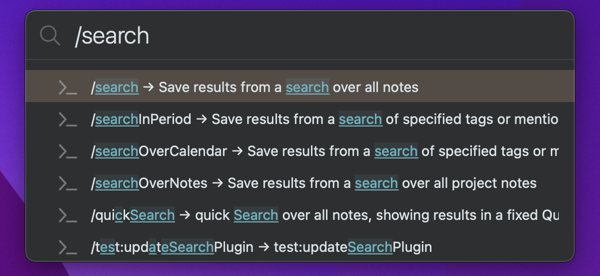
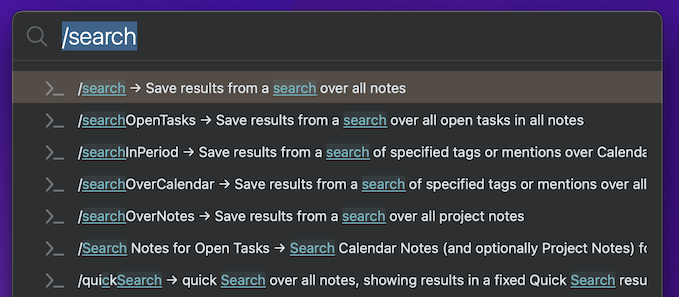
SearchExtensions v1.0.0

diff --git a/helpers/search.js b/helpers/search.js
@@ -156,7 +156,7 @@ export function simplifyRawContent(input: string): string {
  * - if its NotePlan and an 'open' task we need to make it a sync results using blockIDs
  * - shortens it to maxChars characters around the first matching term (if maxChars > 0 and Simplified style). This uses some very powerful regex magic.
  *   - TODO: Ideally doesn't chop in the middle of a URI
- * - adds ==highlight== to matching terms if wanted (and if not already highlighted)
+ * - adds ==highlight== to matching terms if wanted (and if not already highlighted, and using 'Simplified' style)
  * @author @jgclark
  * 
  * @param {string} input this result content
@@ -227,7 +227,7 @@ export function trimAndHighlightTermInLine(
 
     // Add highlighting if wanted (using defined Regex so can use 'g' flag)
     // (A simple .replace() command doesn't work as it won't keep capitalisation)
-    if (addHighlight) {
+    if (simplifyLine && addHighlight) {
       // regex: find any of the match terms in all the text
       const re = new RegExp(`(?:[^=](${terms.join('|')})(?=$|[^=]))`, "gi")
       const termMatches = output.matchAll(re)

diff --git a/jgclark.SearchExtensions/src/searchHelpers.js b/jgclark.SearchExtensions/src/searchHelpers.js
@@ -794,7 +794,7 @@ export async function writeSearchResultsToNote(
     let noteFilename = ''
     const headingMarker = '#'.repeat(config.headingLevel)
     const searchTermsRepStr = resultSet.searchTermsRepArr.join(' ')
-    const xCallbackLine = (xCallbackURL !== '') ? ` [🔄 Click to refresh results for '${searchTermsRepStr}'](${xCallbackURL})` : ''
+    const xCallbackLine = (xCallbackURL !== '') ? ` [🔄 Refresh results for '${searchTermsRepStr}'](${xCallbackURL})` : ''
 
     // Get array of 'may' or 'must' search terms
     const mayOrMustTerms = resultSet.searchTermsRepArr.filter((f) => f[0] !== '-')

diff --git a/jgclark.SearchExtensions/README.md b/jgclark.SearchExtensions/README.md
@@ -1,23 +1,24 @@
 # 🔎 Search Extensions plugin
-NotePlan can search over your notes, but it is currently not very flexible or easy to use; in particular it's difficult to navigate between the search results and any of the actual notes it shows.  This plugin adds some extra power and usability to searching.  Most things can be configured, but by default the search runs and **saves the results in a note that it opens as a split view** next to where you're working.
+NotePlan can search over your notes, but it is currently not very flexible or easy to use; in particular it's difficult to navigate between the search results and any of the actual notes it shows.  This plugin adds some extra power and usability to searching:
+- lets you have keep special notes that lists all open tasks for @colleagueX that you can update in place!
+- extends the search syntax
+- by default the search runs and **saves the results in a note that it opens as a split view** next to where you're working.
 
-![demo](qs+repeat-demo.gif)
+![demo](qs+refresh-demo.gif)
 
-There are several /commands to use in NotePlan's command bar:
+There are the /commands available through NotePlan's command bar:
 
-![the /commands](commands.png)
+![the /commands](commands.png) <!--@@@-->
 
 1. **/quickSearch** searches across **all notes** (both calendar and regular notes), saving to a pre-set 'Quick Search Results' note. (Alias: **/qs**.)
 2. **/search** searches across **all notes**  (both calendar and regular notes). (Alias: **/ss**.)
 3. **/searchOpenTasks** searches just across **open tasks** in all notes.
 4. **/searchOverNotes** searches across **all regular** (non-calendar) notes.
 5. **/searchOverCalendar** searches across **all calendar**  notes.
-6. **/searchResultsInPeriod**: searches over the **calendar and weekly notes of the time period you select**:
-
-![selecting a period](period-selection.png)
+6. **/searchResultsInPeriod**: searches over the **calendar and weekly notes of the time period you select**: ![selecting a period](period-selection.png)
 
 ## Results Display
-The results are always **saved to a note** is saved with the search terms as its title (apart from /quickSearch), in a "Saved Searches" folder (which is created if necessary). If the same search terms are used again they will *update* the same note.  But you also are given the option of saving to the current note, or to the plugin console.
+The results are always **saved to a note** with the search terms as its title (apart from /quickSearch), in a "Saved Searches" folder (which is created if necessary). If the same search terms are used again they will *update* the same note.  But you also are given the option of saving to the current note, or to the plugin console.
 
 As the results are saved to a note, the following sorts of uses are then possible:
 - keep a note with all open tasks for a particular `@person` -- as live tasks that can be ticked off
@@ -25,8 +26,8 @@ As the results are saved to a note, the following sorts of uses are then possibl
 - show all the things you had `Gratitude:` for in your daily journal
 
 There are two **display styles**: 
-1. '**NotePlan**': all results are shown as the usual NotePlan style of tasks, bullets, quotes or just notes. Where a task is an open one, then a sync'd copy of it is shown, to stop duplication of tasks in NotePlan.
-2. '**Simplified**': all results are shown as bullets, and can be reduced in length if required using the 'Result quote length' setting.
+1. '**NotePlan**': all results are shown as the usual NotePlan style of tasks, bullets, quotes or just notes. **Note**: Where a task is an open one, then a sync'd copy of it is shown, to stop duplication of tasks in NotePlan. This makes it a good way of having a special note that you can easily refresh that lists all open tasks for @personX.
+2. '**Simplified**': all results are shown as bullets, and can be reduced in length if required using the 'Result quote length' setting. This style also supports highlighting the search terms in the results (if using an appropriate theme: see below).
 
 You can also set:
 - a 'Group results by Note?' setting, where matches found within the same note are grouped together ('true' by default).
@@ -34,13 +35,15 @@ You can also set:
 - the ordering of the results by the title, created date or changed date of the note the search term is found in.
 - the commands to automatically decides the name of the note to save the search results to based on the search term, which avoids the final prompt, by the 'Automatically save?' setting.
 
-## Refreshing Results
-Each results note has a ` [🔄 Click to refresh results]` pseudo-button under the title of the note. Clicking that runs the search again, and replaces the earlier set of results. (Thanks to @dwertheimer for the suggestion, which is a good use of the x-callback mechanism -- see below.)
+### Refreshing Results
+Each results note has a ` [🔄 Refresh results for ...]` pseudo-button under the title of the note. Clicking that runs the search again, and replaces the earlier set of results. (Thanks to @dwertheimer for the suggestion, which is a good use of the x-callback mechanism -- see below.)
 
 ![refresh results](highlight-refresh-in-search-results.png)
 
-## Notes about searches
-- (from v0.5) put a `+`  and `-` search operator on the front of terms that **must** appear, and **must not** appear, respectively.  For example `+must may could -cannot"` has 4 search terms, the first must be present, the last mustn't be present, and the middle two (may, could) can be.
+This is shown in the demo above.
+
+## Extended search syntax (from v1.0)
+- put a `+`  and `-` search operator on the front of terms that **must** appear, and **must not** appear, respectively.  For example `+must may could -cannot"` has 4 search terms, the first must be present, the last mustn't be present, and the middle two (may, could) can be.
 - the test for + and - is done per line in notes. If you wish to ignore the whole note that has a term, you can use the ! operator, e.g. `+must_have_me !no_way_jose`. (thanks @dwertheimer for this suggestion)
 - you can also use older search style: for example searching for terms X or Y using `X, Y` or `X OR Y`
 - the searches are simple ones, matching on whole or partial words, not using fuzzy matching or regular expressions
@@ -52,10 +55,10 @@ Each results note has a ` [🔄 Click to refresh results]` pseudo-button under t
 ## Settings
 To change the default **settings**, click the gear button on the 'Search Extensions' line in the Plugin Preferences panel to configure this plugin. Each setting has an explanation.
 
-![search settings](search-settings.jpg)
+![search settings](search-settings.png)
 
 ## Results highlighting
-To see **highlighting** of matching terms in the output, you'll need to be using a theme that highlights lines using `==this syntax==`. You can [customise an existing theme](https://help.noteplan.co/article/44-customize-themes) by adding something like:
+To see **highlighting** of matching terms in Simplified-style output, you'll need to be using a theme that highlights lines using `==this syntax==`. You can [customise an existing theme](https://help.noteplan.co/article/44-customize-themes) by adding something like:
 
 ```jsonc
 {
@@ -100,7 +103,7 @@ Notes:
 - as with all x-callback URLs, all the arguments (including the command name) need to be URL encoded. For example, spaces need to be turned into '%20'.
 
 | Command | x-callback start | arg0 | arg1 | arg2 |
-|-----|-------------|-----|-----|-----|
+|-----|-----------|----------|----------|----------|
 | /quickSearch | `noteplan://x-callback-url/runPlugin?pluginID=jgclark.SearchExtensions&command=quickSearch&` | search term(s) (separated by commas) | terms to filter by paragraph type (separated by commas) | noteTypesToInclude either 'project','calendar' or 'both' |
 | /search | `noteplan://x-callback-url/runPlugin?pluginID=jgclark.SearchExtensions&command=saveSearch&` | search term(s) (separated by commas) | terms to filter by paragraph type (separated by commas) |  |
 | /searchOverCalendar | `noteplan://x-callback-url/runPlugin?pluginID=jgclark.SearchExtensions&command=searchOverCalendar&` | search term(s) (separated by commas) | terms to filter by paragraph type (separated by commas) |  |
@@ -108,7 +111,7 @@ Notes:
 | /searchInPeriod | `noteplan://x-callback-url/runPlugin?pluginID=jgclark.SearchExtensions&command=searchInPeriod&` | search term(s) (separated by commas) | start date to search over (YYYYMMDD or YYYY-MM-DD format). If not given, then defaults to 3 months ago. | end date to search over (YYYYMMDD or YYYY-MM-DD format). If not given, then defaults to today. |
 
 ## Future work
-In time I hope to be able to support searching for phrases such as `Bob Smith`, meaning that exact two-word phrase. However, the underlying API doesn't yet make this at all easy.
+In time I hope to be able to support searching for phrases such as `Bob Smith`, meaning that exact two-word phrase. However, the underlying API doesn't make this at all easy.
 
 ## Support
 If you find an issue with this plugin, or would like to suggest new features for it, please raise a [Bug or Feature 'Issue'](https://github.com/NotePlan/plugins/issues).

diff --git a/jgclark.SearchExtensions/CHANGELOG.md b/jgclark.SearchExtensions/CHANGELOG.md
@@ -2,9 +2,25 @@
 (And see the full [README](https://github.com/NotePlan/plugins/tree/main/jgclark.SearchExtensions).)
 <!-- Main description: Allows searches to be saved and re-run, to use more powerful search operators, and be done over specified time periods. -->
 
-## [1.0.0-beta3] - 2022-11-???
+## [1.0.0] - 2022-11-17
+### Changed
+- **This is a major re-write, so read carefully!**
+- simplified most command names from `saveSearch...` to just `search...`
+### Added
+- supports `+` and `-` search operators for terms that **must** appear, and **must not** appear, respectively.  For example `+must may could -cannot` has 4 search terms, the first must be present, the last mustn't be present, and the middle two (may, could) can be.  The test for + and - is done per line in notes. If you wish to ignore the whole note that has a term, you can use the ! operator, e.g. `+must !not-me`. (thanks @dwertheimer for this suggestion)
+- when returning an open task in a result (when using the 'Noteplan' style of output) the task line will be a sync'd copy of the original, not a copy of it. This means checking it off in the results will complete it in the original location too. (This is necessary for the new /searchOpenTasks command.) (For @dwertheimer and @JPR1972).
+- new **/searchOpenTasks** command, that takes advantage of this open task sync
+- you can now refresh results in a single click, with the " [🔄 Refresh results for ...]" pseudo-button under the heading on each search page
+- there are two result styles: normal 'NotePlan' styling, showing tasks, bullets and quotes, tweaked slightly for matching headings. Or 'Simplified' text, more like web search engine results.
+- searches run over the new Weekly Notes as well
+- `"multi word"` search phrases aren't supported by the underlying API, but instead they will be treated as `+multi +word`, which means a match will only happen if they are at least on the same line
+- provides x-callback entry points for these searches, and provides options for restricting searches to certain types of line -- see the [README](https://github.com/NotePlan/plugins/tree/main/jgclark.SearchExtensions) for details.
+- added an API call for this that also allows restricting search to one or more paragraph types (e.g. 'open' for incomplete tasks), through the last parameter on `runSearchV2(...)`.
+
+<!-- ## [1.0.0-beta3] - 2022-11-14
 ### Changed
 - simplified recent code changes to enable more to be tested again
+
 ## [1.0.0-beta2] - 2022-11-11
 ### Added
 - new **/searchOpenTasks** command.
@@ -27,92 +43,12 @@
 - provides x-callback entry points for these searches, and provides options for restricting searches to certain types of line -- see the [README](https://github.com/NotePlan/plugins/tree/main/jgclark.SearchExtensions) for details.
 - added an API call for this that also allows restricting search to one or more paragraph types (e.g. 'open' for incomplete tasks), through the last parameter on `runSearchV2(...)`.
 
-___Your feedback is most welcome!___
-
 <!-- 
 ### Todo
 - [ ] tidy up display in special case of matching H1
 - [ ] go through TODOs in searchHelpers.js
 - [ ] go through TODOs in saveSearch.js
 - [ ] go through TODOs in saveSearchPeriod.js
-- [x] why ""{\"noteFilename\":\"20210519.md\",\"line\":\"- KD #picture big tap but dripping one drop at a time. Arrow pointing to tap, showing it's not turned on far at all. -> openness to Holy Spirit\"}",` getting output as an empty bullet?
--->
-
-<!--
-## Notes on earlier private 0.5.0-beta series
-**Notes for beta7** (2022-08-19):
-- [x] simplify command names from `saveSearch*` to just `search*`
-- [x] resolve API question about `multi word` search phrases -> not supported in API
-  - [x] update README to reflect NP not supporting search phrases directly
-  - [x] modify code to change `"multi word"` search phrases to `+multi +word` instead
-- [x] make rendering smarter by not adding ==...== around existing ==...== (for @dwertheimer)
-- [-] move some searchHelper functions to helpers/search
-
-**Notes for beta6** (2022-08-08):
-- [-] check edge case of hit in URL (e.g. [callback] in note 2022-02-70) -- failed to find cause
-- [x] fix [release] finding an '(error)' title note (actually: 20210830)
-- [x] decide whether to support showEmptyResults option still
-- [x] fix [callback] case: end may 32/20, then end not 29/20, when no not term?
-- [x] check to see if notInFolder param is working
-- [x] update doc to reflect NP not supporting search phrases
-- [x] tested /saveSearchCalendar
-  - [x] can use button to repeat same note
-  - [x] can use noteType parameter
-  - [x] can cope with nil results
-- [x] tested /saveSearchInPeriod
-  - [x] new param on writeResults()
-  - [x] filtering dates out OK
-  - [x] will write sensible reduced title that can be re-used
-  - [x] can use button to repeat same note
-  - [x] can use noteType parameter(s)
-  - [x] can cope with nil results
-- [x] go through FIXMEs in searchHelpers.js
-- [x] go through FIXMEs in saveSearch.js
-- [x] go through FIXMEs in saveSearchPeriod.js
-
-**Notes for beta5** (2022-08-06):
-- [x] rewrite to use de-normalised main data structure part (noteAndLine vs noteAndLines)
-- [x] fix when results are only found in 1 note
-- [x] actually use the new simplifyRawContent() function, not just test it!
-- [x] update plugin.json function parameters
-- [x] tested /quickSearch
-  - [x] basic user command
-  - [x] can use button to repeat to same note
-  - [x] can use single noteType parameter
-  - [x] can use multiple noteType parameters
-  - [x] can cope with nil results
-- [x] tested /saveSearch
-  - [x] basic user command
-  - [x] writing to correct note title
-  - [x] can use button to repeat same note
-  - [x] can cope with nil results
-  - [x] can use noteType parameter/s
-- [x] tested /saveSearchNotes
-  - [x] writing to correct note title
-  - [x] can use button to repeat same note
-  - [x] can cope with nil results
-  - [x] can use noteType parameter/s
-
-**Notes for beta4** (2022-07-30):
-- [x] NP-style always start with the leading markdown
-- [x] blockIDs are now removed via new simplifyRawContent() function
-- [x] trimAndHighlightTermInLine() now supports multiple search terms
-
-**Notes for beta3** (2022-07-26):
-- still only really tested the /quickSearch command so far, but carried over most new logic to /saveSearchPeriod too
-- added a "Style for search results" setting. This chooses the style to use:
-  - Normal "NotePlan" styling, tweaked slightly for matching headings
-  - Use "Simplified" text (like Google results)
-- added support for un-grouped results (a simple list with appended date context or title)
-- added support for highlighting search terms
- 
-**Notes for beta2** (2022-07-23):
-- fixed ordering of result lines within a note
-- added support for search strings using older `x AND y AND z` or `x OR y OR z` or `x, y, z` styles. (Note: you can't mix AND and OR style, as it's hard to then be clear what the right logic is. The newer syntax is clearer.)
-- added support for `"multi word search terms"` -- though I now discover that NotePlan might not support this :-(
-
-**Notes for beta1** (2022-07-22):
-- I've only really tested the /quickSearch command so far
 -->
 
 ## [0.4.1] - 2022-07-11
